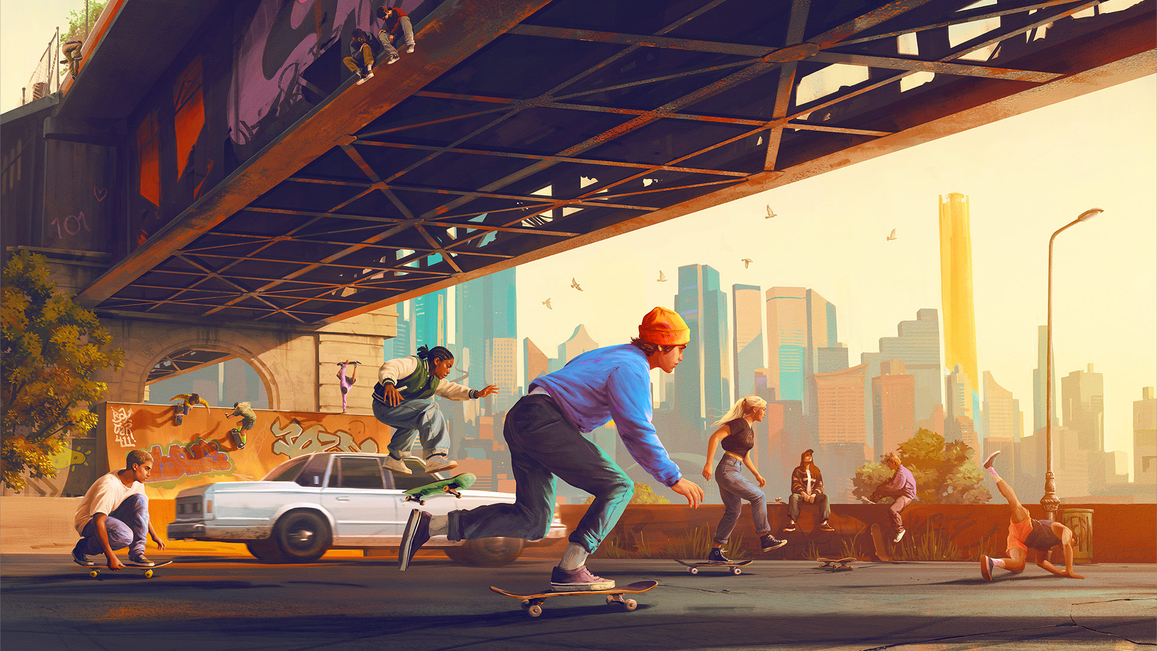
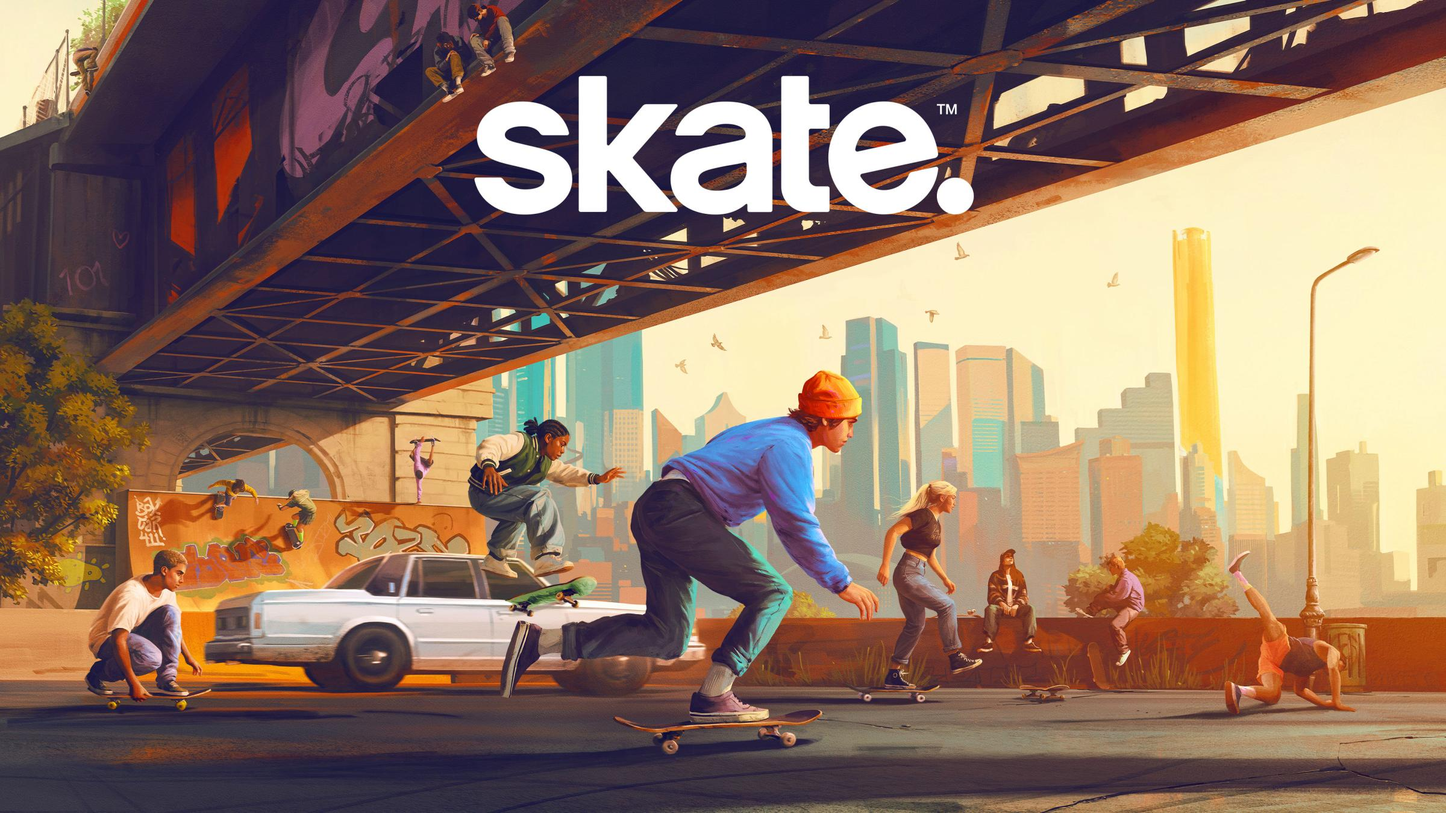
Skate page content update
Added initial pass of content and images to the skate page

diff --git a/skate.html b/skate.html
@@ -105,19 +105,26 @@
         <section class="main-content">
           <img src="assets\img\skate-key.jpg" alt="skate. Key Art" style="padding-top:1rem;">
           <h2>Overview</h2>
-          <p>asoidasdkalsdgashdga</a>.</p>
+          <p>I’m currently a Senior Game Designer on skate. at Full Circle. I’ve been on the project as a systems designer and gameplay content designer for over three years and am now working on the new features team during Early Access Live Service. While I’ve worked on a myriad of different features during my time on skate. I’m highlighting the three highest impact features that I was the owner of below: Scoring, Challenges, and Own The Lot.</p>
 
             <iframe width="100%" height="450" src="https://www.youtube.com/embed/p14MSdRtNIo?si=g6GJiUf1Ghj4UkGM" title="YouTube video player" frameborder="0" allow="accelerometer; autoplay; clipboard-write; encrypted-media; gyroscope; picture-in-picture" allowfullscreen style="padding-top:1rem;"></iframe>
           <figcaption>Skate Early Access Trailer</figcaption>
 
           <h2>Scoring</h2>
-          <p>asoidasdkalsdgashdga</a>.</p>
+          <p>Scoring was the first major feature that I was the design owner for on skate. and I am still the designer responsible for updates and tweaks to the system during Live Service. Scoring had several goals beyond simply evaluating the tricks and actions of the player across Skate’s modes. It also needed to serve as an onboarding tool that passively taught the player what ‘good skating’ looked like, and reinforced the skating styles and behaviours that were the most fun and stylish for a player to perform. </p>
+          <p>The system pushes players to maintain unbroken lines, and perform unique sequences of tricks which form the core back bone of the system that is then fleshed out by a myriad of context modifiers that adjust scores based on how & where the tricks took place (eg: large air gaps, high speed, spins/flips, etc.)</p>
+          <img src="assets\gif\skate-scoring-widget.gif" alt="skate. scoring widget" style="padding-top:1rem;">
+          <figcaption>Scoring Widget in game</figcaption>
 
           <h2>Challenges</h2>
-          <p>asoidasdkalsdgashdga</a>.</p>
+          <p>I was also the design owner for our Challenges feature which is an umbrella term that covers all ‘non-story’ challenges in the game, which includes the following modes: Own the Spot, Stunt, Line, and Session challenges. As the feature owner for challenges I defined what challenges were, what ‘good’ looked like for them, and built ~30% of our launch challenge roster of ~150 challenges while guiding our activity designers in the development of the remaining challenges.</p>
+          <img src="assets\gif\skate-challenges-map.gif" alt="skate. challenge map" style="padding-top:1rem;">
+          <figcaption>Pan over the world map with a selection of challenges visible</figcaption>
 
           <h2>Own the Lot</h2>
-          <p>asoidasdkalsdgashdga</a>.</p>
+          <p>Most recently I was the design owner for our first primarily multiplayer mode ‘Own The Lot’ for our Season 2 release. This mode utilized the previously established challenge tools to create a dynamic and challenging experience for 1-4 players, with the goal of only incredibly proficient players being able to complete the mode solo. The mode has been received very positively from players and below you can see one of them attempting to complete one of the Own the Lot challenges solo!</p>
+          <iframe width="100%" height="450" src="https://www.youtube.com/embed/_ZNUYVeDFMs?si=9Se3m0qvb-qOOp7L" title="YouTube video player" frameborder="0" allow="accelerometer; autoplay; clipboard-write; encrypted-media; gyroscope; picture-in-picture" allowfullscreen style="padding-top:1rem;"></iframe>
+          <figcaption>Player video showcasing some challenges and an Own The Lot Solo</figcaption>
 
         </section>
       </div>

diff --git a/bio.html b/bio.html
@@ -101,7 +101,7 @@
         </section>
         <section class="main-content">
 
-          <p>Hello! Thanks for visiting my little corner of the web. Have a look around, and feel free to look into my <a href="https://github.com/LoganAFBuchanan" target="_blank">GitHub</a> or <a href="https://www.linkedin.com/in/logan-buchanan-90b8b3126/" target="_blank">LinkedIn</a> while you’re out and about. I’m a Game Designer, and former web developer living in Vancouver, B.C. currently working at Kabam as an RPG Designer.  I have been a designer in the games industry for close to 3 years now and I don't think I'm going to be stopping any time soon. I spend my free time biking, running D&D campaigns, and writing fictional dialogue on Twitter.</p>
+          <p>Hello! Thanks for visiting my little corner of the web. Have a look around, and feel free to look into my <a href="https://www.linkedin.com/in/logan-buchanan-90b8b3126/" target="_blank">LinkedIn</a> while you’re out and about. I’m a Game Designer, and former web developer living in Vancouver, B.C. currently working at Full Circle as a Senior Game Designer on skate.  I have been a designer in the games industry for close to 9 years now and I don't think I'm going to be stopping any time soon. I spend my free time biking, running TTRPG campaigns, and being a snob about movies and indie games.</p>
           <p>I think that’s everything right?</p>
           <ul>
             <li>Affable greeting; check.</li>
@@ -119,7 +119,7 @@
             </ol>
             <p>That’s about it!</p>
           </div>-->
-          <p>Alright, with that outta the way feel free to peruse my various social networks at the bottom of the page, or look through a few of my projects. Lastly, have a super perfundo upon the early eve of your day!</p>
+          <p>Alright, with that outta the way feel free to peruse my various social networks at the bottom of the page, or look through a few of my projects. Have a super perfundo upon the early eve of your day!</p>
 
         </section>
       </div>
